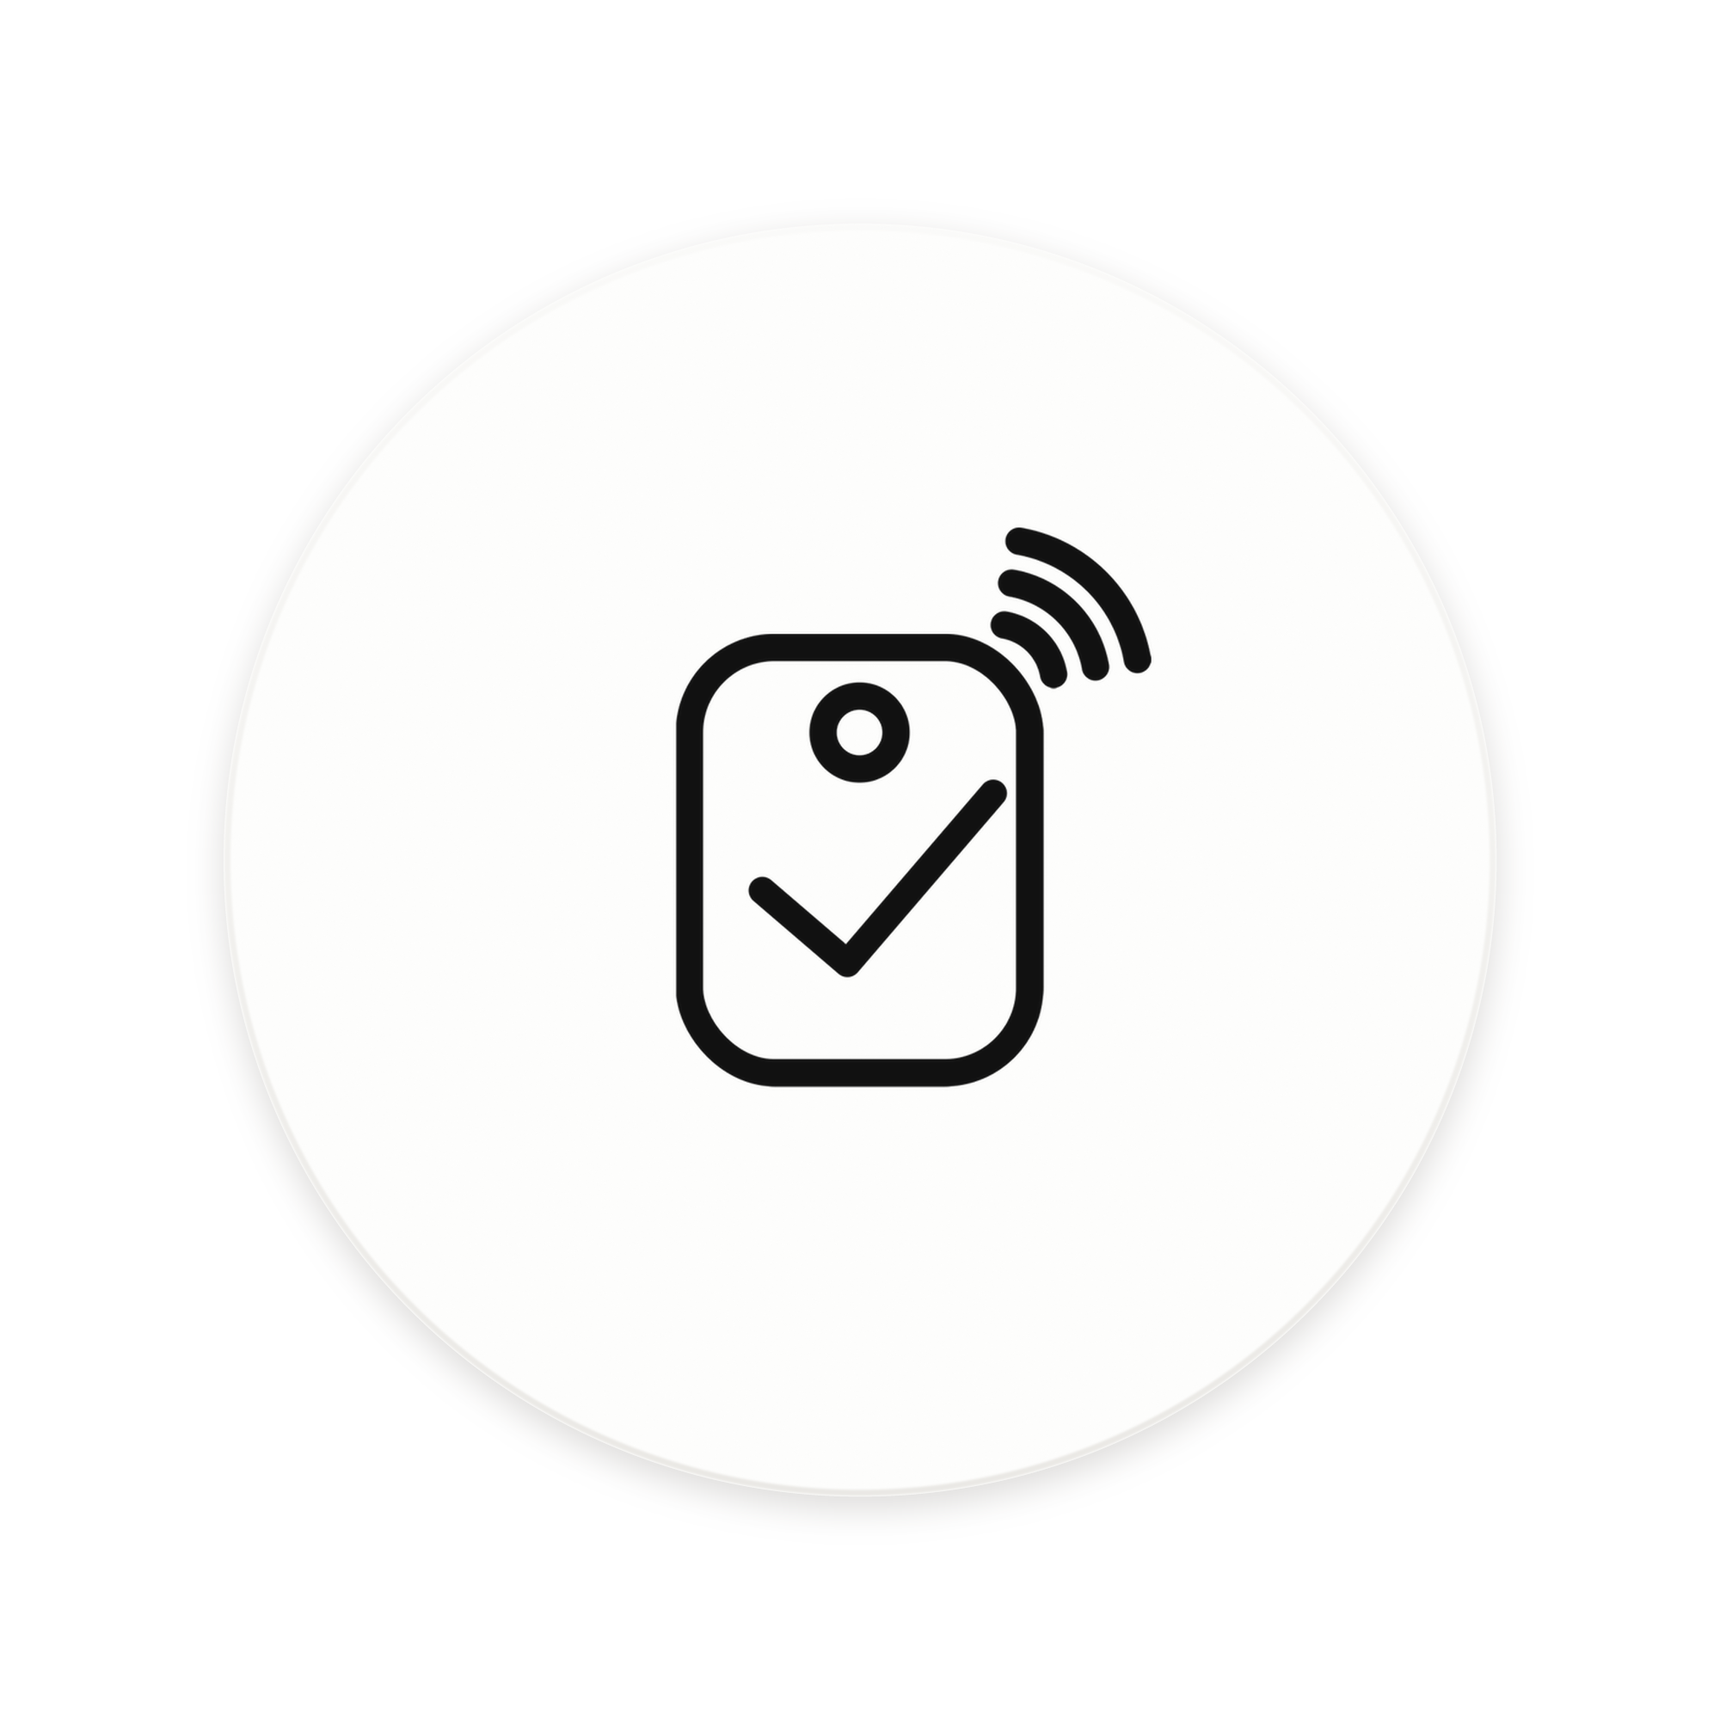
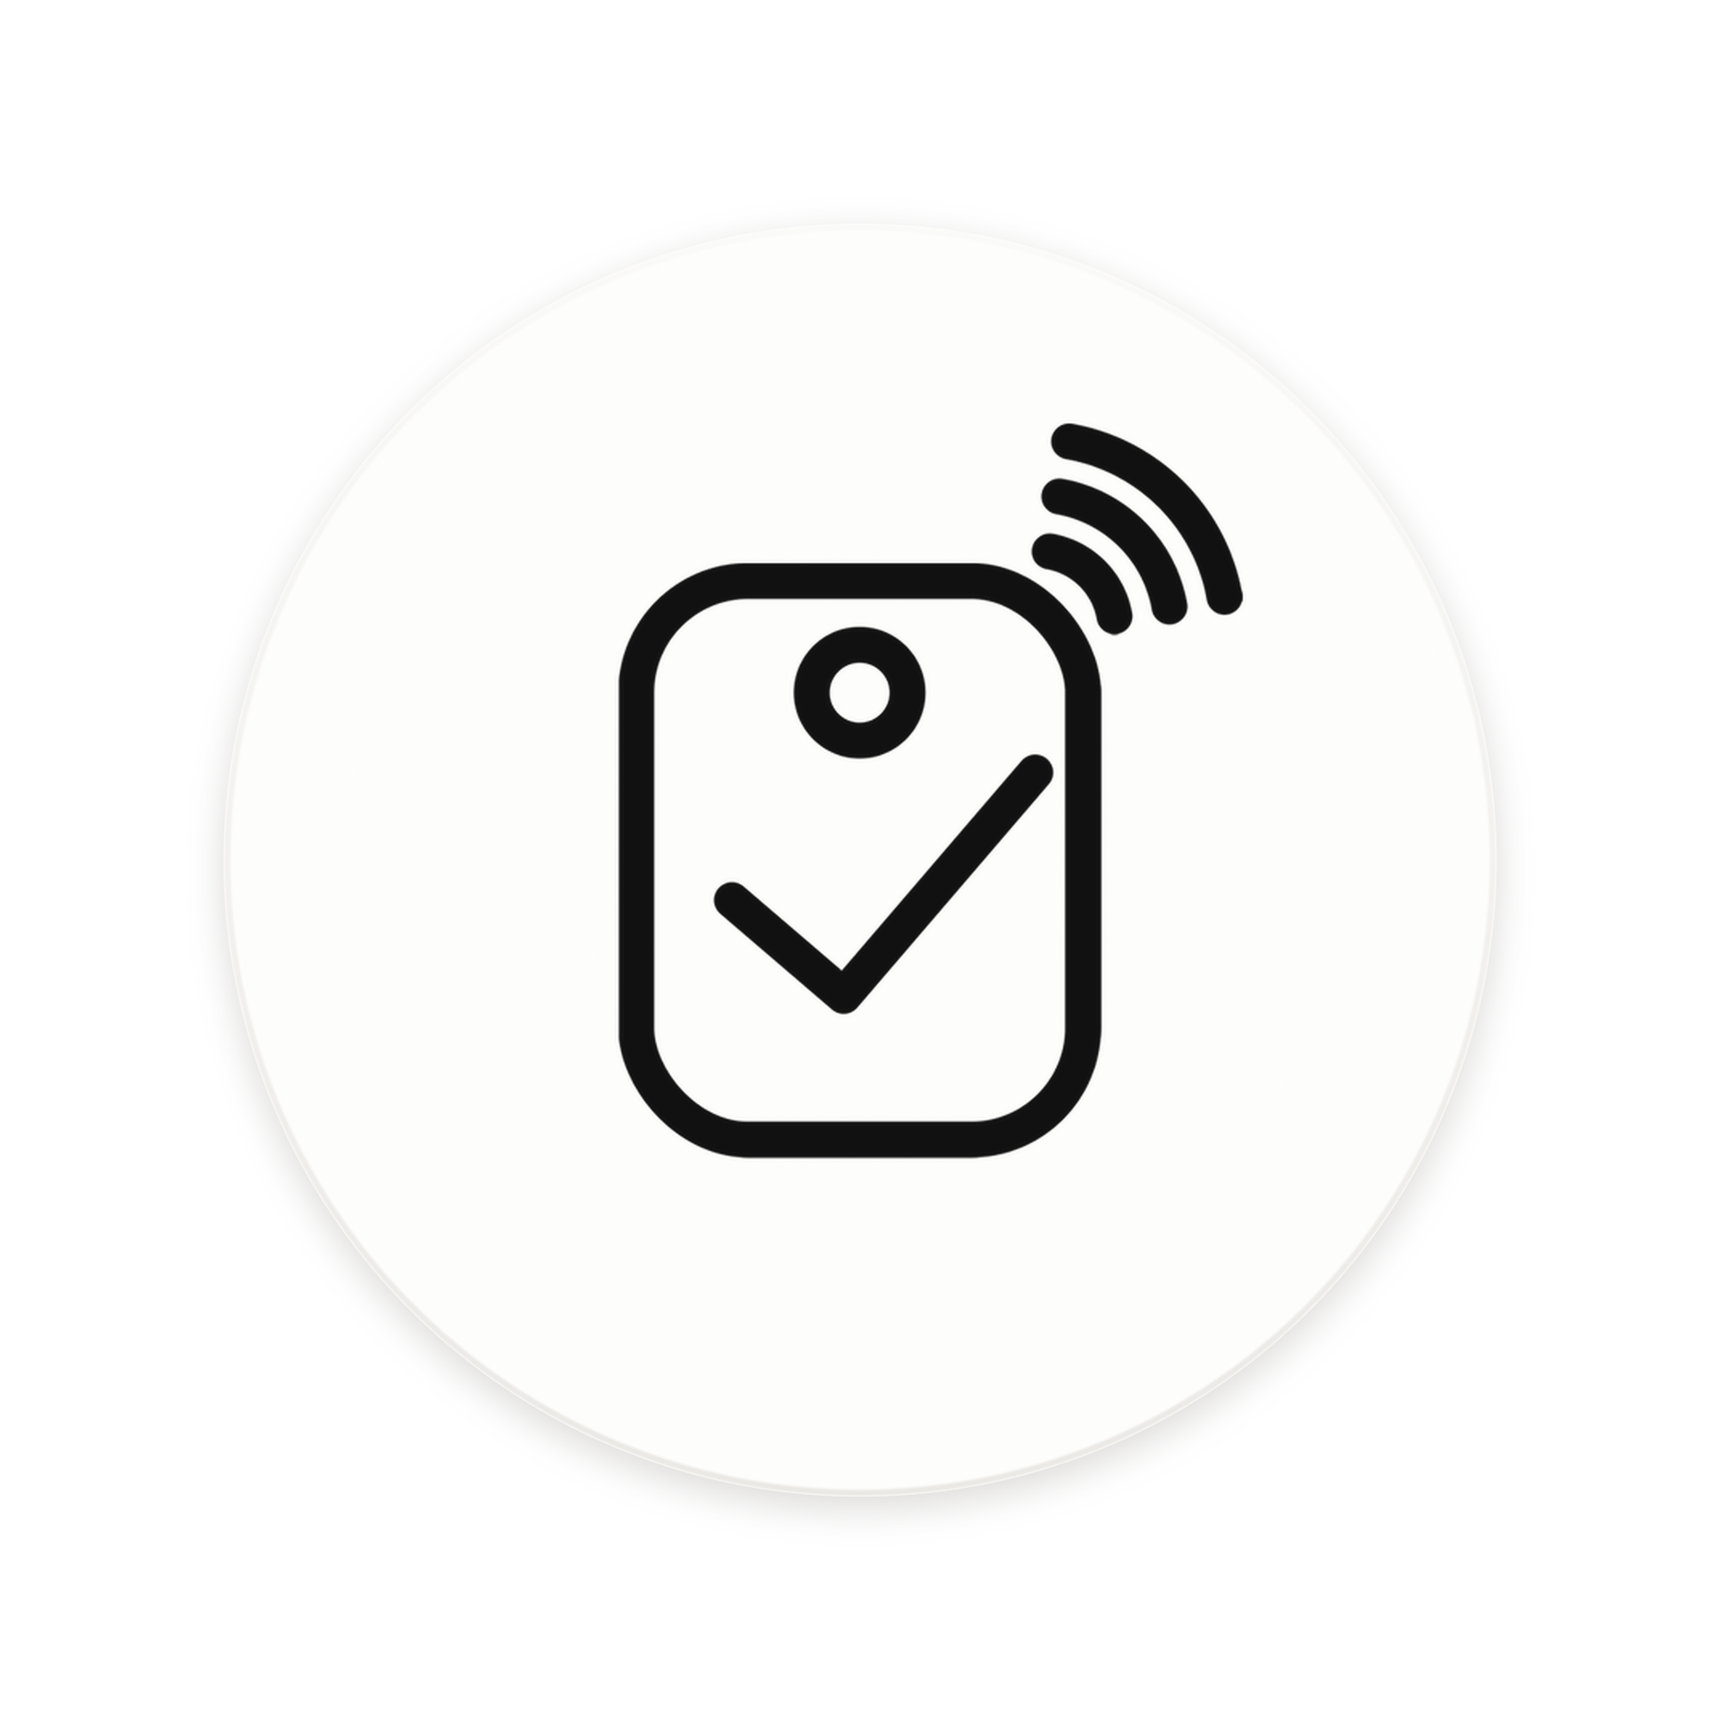
Parts 1 and 3: no widows at six widths, and life size tags
Mirrors mindknowt-app site/polish-hero-steps 1e6fabb and f326cbd.

PART 1, WIDOWS. Sixteen blocks ended on a single word. Thirteen were running
prose on Terms, Privacy and Support and took `text-wrap: pretty`, which works
on the end of a paragraph rather than evening every line, and which is not
capped at a few lines the way `balance` is. `balance` went on the step
descriptions and the prose page headings. Three blocks are too short for
either property to have a choice, "No subscription" being two words, so those
take a non-breaking space.

These pages passed this same check a week ago with hand placed non-breaking
spaces. This container has Chromium 153 rather than the older build, the break
points moved, and thirteen new widows appeared in text nobody had touched. A
bound pair only holds at the width it was chosen at; a property that states
the intent survives a new engine. That is the reason for the split above.

PART 3, TAG SCALE. Every tag drawn beside a phone is now 19.05mm against
71.9mm of phone, which is 0.2650 of the frame, derived from the phone's own
rendered width through `--mm` and never from a pixel value. `.hero-art`,
`.kit-art` and `.step-art` are inline-size query containers so their children
can build `--mm` from `100cqw`. Measured at 1440, 1280, 957, 768 and 390,
every tag lands within 0.09 percent.

The tag is three quarters of an inch now rather than 25mm and the mark's
printed height did not change with it, so the rectangle covers 0.467 of the
[…]

Changed region(s): [[0.341, 0.248, 0.744, 0.682]]

diff --git a/mindknowt/site/css/style.css b/mindknowt/site/css/style.css
@@ -518,6 +518,26 @@ img {
  */
 :root {
   --disc-in-box: 0.74;
+
+  /*
+   * Real-world scale, in millimeters.
+   *
+   * Every tag drawn beside a phone is sized from these and from the phone
+   * frame's own rendered width, never from a percentage picked to look right
+   * at one window size. `--mm` is defined per context, because it is the
+   * rendered phone that sets it, and it is the only thing any of these get
+   * multiplied by.
+   *
+   * To change the product's size, change `--tag-mm` and nothing else: the
+   * disc, the overhang and the test all read it. The icon's printed height
+   * does not move with it, which is why the two are separate numbers, and
+   * why the ratio between them lives in `assets/tag-disc.py` rather than
+   * here. The mark is painted into the file, so the stylesheet scales the
+   * disc and the file carries the icon at the right fraction of it.
+   */
+  --phone-mm: 71.9;    /* iPhone 17 Pro, across. The frame is the reference. */
+  --tag-mm: 19.05;     /* the Knowt Tag, three quarters of an inch across */
+  --icon-rect-mm: 8.89; /* the mark's rectangle, 0.35 inch, baked into the file */
 }
 
 /*
@@ -617,23 +637,61 @@ img {
  * space on a wide screen and the edge of the page on a narrow one, and it
  * put a scrollbar under the whole site at 1024 and at 390.
  */
+/*
+ * The phone frame is exactly the content box of this element, because
+ * `.phone-hero` is `width: 100%` of it and the image's body touches all four
+ * of its edges. Making it an inline-size query container therefore gives its
+ * children a unit that IS the phone's rendered width: 100cqw. That is what
+ * `--mm` is built from, so the tag is scaled by the phone rather than by the
+ * window, at every width, with no pixel value anywhere.
+ *
+ * `--mm` is set on the children rather than here, because an element cannot
+ * query its own size: `cqw` written on `.hero-art` would resolve against
+ * whatever container is above it.
+ */
 .hero-art {
   position: relative;
   padding: 0 10% 10% 0;
+  container-type: inline-size;
+  /*
+   * Required, not tidying. `container-type: inline-size` applies inline size
+   * containment, so the element stops taking its width from its contents. The
+   * narrow layouts center it with `justify-self`, which asks it for exactly
+   * that contribution, and without a width of its own it collapsed to 38px
+   * and took the phone and the tag down to nothing with it.
+   */
+  width: 100%;
+}
+
+.hero-art > * {
+  --mm: calc(100cqw / var(--phone-mm));
 }
 
 .phone-hero {
   width: 100%;
 }
 
+/*
+ * 19.05mm across, which is 26.5 percent of the phone frame. The file is wider
+ * than the disc by `--disc-in-box`, so the image is divided back up by it and
+ * the visible circle lands on the real measurement.
+ *
+ * Placed by its center, one and a half millimeters past the phone's right
+ * edge and a little over a millimeter below its bottom, so it rests on the
+ * corner with most of itself off the phone. That position is not free: the
+ * tab bar row, the Daily / Knowts / Log pill and the plus button, occupies
+ * x 0.095 to 0.931 and y 0.884 to 0.947 of the frame, measured off
+ * phone-hero.png, and the disc clears its nearest corner by about 2.6 percent
+ * of the phone's width. `layout.test.mjs` asserts that it still does.
+ */
 .tag-hero {
   position: absolute;
-  right: -6%;
-  bottom: -6%;
-  /* 72 of the box is a disc of 53, which against a 232 point phone is what
-     the mockup shows. The overhang lands in the grid gap on a wide screen
-     and in the page gutter on a narrow one. */
-  width: 72%;
+  width: calc(var(--tag-mm) * var(--mm) / var(--disc-in-box));
+  /* center at 73.4mm across, 152.8mm down, less half the file's width */
+  left: calc(60.53 * var(--mm));
+  top: calc(139.93 * var(--mm));
+  right: auto;
+  bottom: auto;
 }
 
 .steps {
@@ -694,6 +752,7 @@ img {
   font-size: 15.5px;
   line-height: 1.5;
   color: var(--charcoal);
+  text-wrap: balance;
 }
 
 /* The illustration, and on two of the three a Knowt Tag over it. The wash
@@ -704,6 +763,17 @@ img {
   aspect-ratio: 1 / 1;
   display: grid;
   place-items: center;
+  container-type: inline-size;
+}
+
+/*
+ * The phone drawn inside step-set.png and step-tap.png measures 279 of the
+ * 800 square, so it is 34.9 percent of this box. That is the reference the
+ * Tap badge is scaled against, the same way the hero tag is scaled against
+ * the photographed frame.
+ */
+.step-art > * {
+  --mm: calc(34.9cqw / var(--phone-mm));
 }
 
 /*
@@ -716,11 +786,31 @@ img {
  * on both, in the lower right, which on Stick lands it on the bottle's face
  * and on Tap in the gap the arcs run through.
  */
+/*
+ * The badge on Stick. That tile draws a plant pot, not a phone, so there is
+ * nothing in it to be life size against and it keeps the size it had.
+ */
 .tag-step {
   position: absolute;
   right: 1%;
   bottom: 1%;
   width: 54%;
+}
+
+/*
+ * The badge on Tap, which does have a phone to measure against.
+ *
+ * At life size this is a ninth of the tile, so it only reads as a tag if it
+ * is resting on the phone it is scaled against. The drawn phone occupies
+ * x 232 to 510 and y 92 to 646 of the 800 square, so its bottom right corner
+ * is at 63.8 and 80.8 percent, and the disc is centered just past it.
+ */
+.tag-step-phone {
+  width: calc(var(--tag-mm) * var(--mm) / var(--disc-in-box));
+  left: 59.3%;
+  top: 76.8%;
+  right: auto;
+  bottom: auto;
 }
 
 /* ---------- A simple system, a better you ---------- */
@@ -876,20 +966,43 @@ img {
  * cannot overlap, so no width, no zoom and no future tweak to the offsets can
  * put a tag on the screenshot again.
  */
+/*
+ * Real-world scale here too. The art box is 190.6mm across in product terms,
+ * which is the number that keeps the phone exactly the size it already was:
+ * 71.9 of 190.6 is 37.7 percent of the box, and 37.7 percent is what 82
+ * percent of a 46 percent column came to. Stating it this way means the phone
+ * and the five tags are both expressed in millimeters, so the ratio between
+ * them cannot drift when the column split or the gap is touched.
+ */
 .kit-art {
   position: relative;
   padding: 2% 0 6%;
   display: grid;
-  grid-template-columns: 46% minmax(0, 1fr);
-  gap: clamp(6px, 0.8vw, 14px);
+  /*
+   * The tag column is sized to the tags, not given a share of the box. At
+   * life size the cluster is 58.5mm against a 190.6mm box, so a 1fr column
+   * left it floating in the middle of a wide empty strip. `auto` lets the
+   * column be the width of what is in it and `justify-content: center` sits
+   * the pair together in the middle of the panel.
+   */
+  grid-template-columns: 46% auto;
+  justify-content: center;
+  gap: clamp(10px, 1.6vw, 28px);
   align-items: center;
+  container-type: inline-size;
+  /* see `.hero-art`: inline size containment stops it sizing from contents */
+  width: 100%;
 }
 
 /* 82 percent of a 46 percent column is 38 of the box, which is where this
    sat before and is the mockup's proportion: about 205 points of phone
    against 1188 of panel. */
+.kit-art > * {
+  --mm: calc(100cqw / 190.6);
+}
+
 .phone-kit {
-  width: 82%;
+  width: calc(var(--phone-mm) * var(--mm));
   /*
    * The cap is the point. Everything above is a percentage, so without a
    * ceiling the phone would grow with the window forever, and the panel with
@@ -909,8 +1022,18 @@ img {
  * the column, and `relative` so the five are placed inside it rather than
  * over the panel.
  */
+/*
+ * The box is sized from the disc rather than from the column. A disc is 44
+ * percent of it, and a disc has to come out at 19.05mm, so the box is
+ * 19.05 / 0.74 / 0.44 = 58.5mm. Keeping the 44 percent is what preserves the
+ * arrangement: every position below is a percentage of this box, so the five
+ * hold their shape while the whole group shrinks to life size.
+ */
 .tag-cluster {
   position: relative;
+  width: calc(58.5 * var(--mm));
+  max-width: 100%;
+  justify-self: center;
   aspect-ratio: 1 / 1;
   pointer-events: none;
 }
@@ -1019,6 +1142,7 @@ img {
 
 .page-head h1 {
   font-size: clamp(32px, 5.6vw, 52px);
+  text-wrap: balance;
 }
 
 .page-head .updated {
@@ -1045,9 +1169,24 @@ img {
   margin-bottom: 8px;
 }
 
+/*
+ * `pretty` rather than `balance` on running prose.
+ *
+ * Balance evens every line, which is what a two line description wants and
+ * what a ten line paragraph does not: implementations cap it at a handful of
+ * lines anyway, so on Terms and Privacy it silently does nothing. `pretty`
+ * leaves the body of the paragraph alone and works on the end of it, which is
+ * exactly the widow rule.
+ *
+ * This is also the robust half of the fix. A hand placed non-breaking space
+ * binds one pair at the width it was chosen for; these paragraphs picked up
+ * new widows the first time they met a newer Chromium, because the break
+ * points moved. A property that states the intent survives that.
+ */
 .prose p,
 .prose li {
   color: var(--charcoal);
+  text-wrap: pretty;
 }
 
 .prose p + p {
@@ -1241,8 +1380,15 @@ img {
     margin: 0 auto;
   }
 
-  .phone-kit {
-    width: 88%;
+  /*
+   * Restated in millimeters rather than left as a percentage. `--mm` is what
+   * the five tags are sized from, so a percentage here would change the phone
+   * without changing them and the pair would stop being to scale. 88 percent
+   * of the 46 percent column is 40.5 of the box, which is 77.1mm against the
+   * 190.6mm box, so the art box is narrower in product terms down here.
+   */
+  .kit-art > * {
+    --mm: calc(100cqw / 177.6);
   }
 }
 

diff --git a/mindknowt/site/index.html b/mindknowt/site/index.html
@@ -132,7 +132,7 @@
             <span class="step-num" aria-hidden="true">02</span>
             <div class="step-body">
               <h2>Set</h2>
-              <p>Create your Knowt.</p>
+              <p>Create your&nbsp;Knowt.</p>
             </div>
             <div class="step-art" aria-hidden="true">
               <img class="step-img" src="/assets/step-set.png" alt="" width="800" height="800" />
@@ -147,7 +147,7 @@
             </div>
             <div class="step-art" aria-hidden="true">
               <img class="step-img" src="/assets/step-tap.png" alt="" width="800" height="800" />
-              <img class="tag-disc tag-step" src="/assets/knowt-tag.png" alt="" width="2000" height="2000" />
+              <img class="tag-disc tag-step tag-step-phone" src="/assets/knowt-tag.png" alt="" width="2000" height="2000" />
             </div>
           </li>
         </ol>
@@ -221,7 +221,7 @@
                   <rect x="7" y="2.6" width="10" height="18.8" rx="2.6" />
                   <path d="M11 18.6h2" />
                 </svg>
-                <span>No subscription</span>
+                <span>No&nbsp;subscription</span>
               </li>
               <li>
                 <svg class="line-art feature-icon" viewBox="0 0 24 24" fill="none" stroke="currentColor" stroke-width="1.6" stroke-linecap="round" stroke-linejoin="round" aria-hidden="true" focusable="false">

diff --git a/mindknowt/site/assets/tag-disc.py b/mindknowt/site/assets/tag-disc.py
@@ -32,13 +32,19 @@ import sys
 from PIL import Image, ImageChops, ImageDraw, ImageFilter
 
 # --- the product ---------------------------------------------------------
-DISC_MM = 25.0                     # the sticker, across
-DISC_IN = 0.984                    # the same, in inches
+#: The sticker, across. Three quarters of an inch.
+#:
+#: This is the one number that moves if the product changes size. The icon's
+#: printed height does not move with it, so a smaller disc means the mark
+#: covers more of it, and RECT_RATIO is what carries that through to the
+#: drawing and to the test.
+DISC_MM = 19.05
+DISC_IN = 0.75                     # the same, in inches
 ICON_RECT_IN = 0.35                # the mark's rectangle, printed height
-#: The rectangle's height as a fraction of the disc. 0.35 over 0.984.
+#: The rectangle's height as a fraction of the disc. 0.35 over 0.75.
 RECT_RATIO = ICON_RECT_IN / DISC_IN
 #: What the test holds it to, and how far it may drift.
-RECT_RATIO_NOMINAL = 0.356
+RECT_RATIO_NOMINAL = 0.467
 RECT_RATIO_TOLERANCE = 0.005
 #: The rectangle's center may sit this far from the disc's, in file pixels.
 CENTER_TOLERANCE_PX = 1.0
@@ -52,13 +58,25 @@ CX = CY = BOX / 2
 
 #: The largest the page ever draws this, so "a pixel at the displayed size"
 #: can be turned into file pixels. The hero disc is about 230 points across.
-DISPLAY_PX = 230.0
-PER_DISPLAY_PX = D / DISPLAY_PX    # about 6.4 file pixels to one displayed
+#: The largest the page draws this. At real-world scale the hero disc is
+#: 26.5 percent of the phone frame, which is about 110 points at the widest
+#: the phone gets, not the 230 it was when the disc was drawn oversized.
+#:
+#: The shadow and the rim are set as multiples of PER_DISPLAY_PX, which makes
+#: them fixed fractions of the diameter, so they scale with the disc rather
+#: than staying put as it shrinks. That is what keeps a shadow tuned at one
+#: size from looking heavy at another.
+DISPLAY_PX = 110.0
+PER_DISPLAY_PX = D / DISPLAY_PX
 
 FACE = (253, 253, 252)             # matte, barely off white
 RIM = (231, 229, 225)              # the edge, a touch darker than the face
 SHADOW = (92, 86, 79)              # slightly warm gray
 SHADOW_ALPHA = 54                  # low: it is a sticker lying flat
+#: Measured at DISPLAY_PX, so each is a fixed fraction of the diameter.
+SHADOW_OFFSET_PX = 1.0
+SHADOW_BLUR_PX = 1.5
+RIM_PX = 0.55
 GRAIN = 2                          # tonal variation, in levels of 255
 INK_LEVEL = 17                     # the printed mark, measured off the artwork
 #: Halfway between ink and face, where an antialiased edge pixel is half
@@ -143,8 +161,8 @@ def build():
     # --- contact shadow ---------------------------------------------------
     # Two pixels down and three of blur at the displayed size. Anything wider
     # reads as the disc hovering rather than resting.
-    dy = round(2 * PER_DISPLAY_PX)
-    blur = 3 * PER_DISPLAY_PX
+    dy = round(SHADOW_OFFSET_PX * PER_DISPLAY_PX)
+    blur = SHADOW_BLUR_PX * PER_DISPLAY_PX
     sh = Image.new('L', (BOX, BOX), 0)
     ImageDraw.Draw(sh).ellipse(
         [CX - R, CY - R + dy, CX + R, CY + R + dy], fill=SHADOW_ALPHA,
@@ -171,7 +189,7 @@ def build():
     # shows the cut edge catching along the lower side and nothing at all
     # opposite it, so this is a full thin ring faded out by a gradient rather
     # than an arc, which would stop somewhere visible.
-    w = max(1, round(1.1 * PER_DISPLAY_PX))
+    w = max(1, round(RIM_PX * PER_DISPLAY_PX))
     ss = 4
     rim = Image.new('L', (BOX * ss, BOX * ss), 0)
     ImageDraw.Draw(rim).ellipse(
